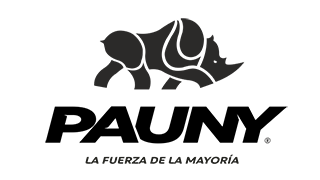
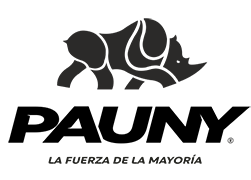
agregue seccion maquinaría y jardineria y cambios varios

diff --git a/index.html b/index.html
@@ -14,7 +14,7 @@
   <title>CamPoder SRL</title>
 </head>
 <body id="inicio">
-  <header class="bg-white">
+  <header class="bg-white sticky-top">
     <nav class="navbar navbar-expand-lg navbar-light">
       <div class="container">
         <a class="navbar-brand" href="#inicio">
@@ -35,7 +35,7 @@
               <a class="nav-link" href="#maquinaria">Maquinaria</a>
             </li>
             <li class="nav-item">
-              <a class="nav-link" href="">Jardinería</a>
+              <a class="nav-link" href="#motoimplementos">Jardinería</a>
             </li>
             <li class="nav-item">
               <a class="nav-link" href="">Contacto</a>
@@ -46,8 +46,8 @@
     </nav>
   </header>
   <main>
-    <section class="hero container d-flex flex-column flex-lg-row justify-content-center align-items-center my-2 my-md-5 py-5" >
-      <div class="row">
+    <section class="hero d-flex flex-column flex-lg-row justify-content-center align-items-center my-5 py-5" >
+      <div class="row container">
         <div class="d-flex flex-column justify-content-center align-items-center text-center col-12 col-lg-6">
           <img src="/img/campoder logo vector-ai.svg"  alt="" class="hero-logo">
           <h3 class="hero-subtitulo fw-bolder">"Un sólido respaldo para tu campo"</h3>
@@ -58,16 +58,42 @@
         </div>
       </div>  
     </section>
-    <section class="semillas d-flex justify-content-center align-items-center my-2 my-md-5" id="semillas">
+    <section class="semillas d-flex justify-content-center align-items-center py-5 mb-1" id="semillas">
       <div class="row container">
-        <div class="col-4 col-sm-6 col-lg-4 d-flex justify-content-start align-items-center">
-          <img src="/img/paquete.png" alt="" class="semillas-img d-none d-sm-block">
-          <img src="/img/90150400000_2ql7moyd0yfmf3to.png" alt="" class="semillas-img d-sm-none">  
+        <div class="col-12 col-md-4 d-flex justify-content-center align-items-center">
+          <img src="/img/paquete.png" alt="" class="semillas-img d-none d-md-flex">
+          <img src="/img/90150400000_2ql7moyd0yfmf3to.png" alt="" class="paquetes-img d-md-none">  
         </div>
-        <div class="col-8 col-sm-6 col-lg-8 semillas-texto d-flex justify-content-center align-items-start flex-column">
+        <div class="col-12 col-md-8 semillas-texto text-center text-md-end d-flex justify-content-center align-items-center flex-column">
           <h3 class="fw-bold pe-lg-3">PIONEER SEMILLAS <br> líder mundial en desarrollo y producción de genética y biotecnología de avanzada para cultivos.</h3>
           <h2>Somos representantes <span class="fw-bolder"> PIONEER </span> en Tucumán y zonas de Catamarca y Santiago del Estero.</h2>
-          <a href="https://www.pioneer.com/ar/" target="_blank" class="semillas-button fw-bold">Ver más</a>
+          <a href="https://www.pioneer.com/ar/" target="_blank" class="button semillas-button fw-bold align-self-md-end">Ver más</a>
+        </div>
+      </div>
+    </section>
+    <section class="maquinaria d-flex justify-content-center align-items-center py-5 mb-1" id="maquinaria">
+      <div class="row container d-flex flex-column flex-md-row justify-content-center align-items-center my-2 my-md-5">
+        <div class="col-12 text-center text-md-start col-md-6">
+          <img src="/img/a_8f3184dc03.png" class="maquianria-pauny-logo" alt="">
+          <h3 class="mb-3 fw-bold">Una empresa argentina líder en el rubro metalmecánico, reconocida por la producción de una completa gama de tractores de mediana y alta potencia, y de una sólida maquinaria vial. </h3>
+          <a href="#" target="_blank" class="button maquianaria-button fw-bold">Ver más</a>
+        </div>
+        <div class="col-12 col-md-6 mt-3 mt-sm-0">
+          <img src="/img/1478705423_evo-500c.png" class="maquinaria-img" alt="">
+        </div>
+      </div>
+    </section>
+    <section class="motoimplementos d-flex justify-content-center align-items-center py-2 py-md-5" id="motoimplementos">
+      <div class="row container">
+        <div class="col-12 col-md-7 d-flex justify-content-center align-items-center">
+          <img src="/img/stihl img.png" alt="" class="w-100 mb-3 mb-sm-0">
+        </div>
+        <div class="col-12 col-md-5 stihl-texto text-center text-md-end d-flex justify-content-center align-items-center flex-column">
+          <img src="/img/2560px-Stihl_Logo.svg.png" class="w-50 align-self-md-end" alt="">
+          <h2 class="fw-bold">Elegí la marca N° 1 en el mundo de motoimplementos y 
+            herramientas para jardinería! 
+            ELEGI STIHL!</h2>
+          <a href="#" target="_blank" class="button stihl-button fw-bold align-self-md-end">Ver más</a>
         </div>
       </div>
     </section>

diff --git a/css/style.css b/css/style.css
@@ -3,6 +3,8 @@
   --amarillo: #F9DE5D;
   --verde: #009241;
   --negro: #1F1A17;
+  --blanco: #f1f1f1;
+  --naranja: #ff7a0d;
 }
 *{
   font-family: 'Lato', sans-serif;
@@ -30,8 +32,15 @@
 .hero-img{
   width: 100%;
 }
+.semillas{
+  height: 100vh;
+  background-color: #d4d4d4;
+}
 .semillas-img{
-  width: 100%
+  width: 100%;
+}
+.paquete-img{
+  width: 50%;
 }
 .semillas-texto span{
   color: var(--verde);
@@ -39,19 +48,50 @@
 .semillas-texto h3{
   color: var(--verde);
 }
+.button{
+  padding: 10px 25px;
+  border-radius: 5px;
+  border: none;
+  font-size: 1.2rem;
+  text-decoration: none;
+  cursor: pointer;
+}
 .semillas-button{
   background-color: var(--verde);
- padding: 10px 25px;
- border-radius: 5px;
- border: none;
- font-size: 1.2rem;
- text-decoration: none;
- cursor: pointer;
- color: white;
+  color: var(--blanco);
 }
 .semillas-button:hover{
   background-color: var(--amarillo);
   color: var(--negro)
+}
+.maquinaria{
+  height: 100vh;
+  background-image: linear-gradient(red, yellow);
+}
+.maquianria-pauny-logo{
+  width: 50%;
+}
+.maquianaria-button{
+  background-color: var(--amarillo);
+  color: var(--negro);
+}.maquianaria-button:hover{
+  background-color: var(--verde);
+  color: var(--blanco);
+}
+.maquinaria-img{
+  width: 100%;
+}
+.motoimplementos{
+  height: 100vh;
+  background-color: #dbdada;
+}
+.stihl-button{
+  color: var(--blanco);
+  background-color: var(--naranja);
+}
+.stihl-button:hover{
+  color: var(--negro);
+  background-color: #ff5100;
 }
 @media (min-width: 578px) and (max-width: 993px){
   .nav-img{
@@ -92,13 +132,7 @@
   .hero-img{
     width: 100%;
   }
-  .semillas-texto h2{
-    font-size: 18px;
-  }
-  .semillas-texto h3{
-    font-size: 14px;
-  }
-  .semillas-button{
+ .button{
     font-size: 12px;
     padding: 5px 15px;
   }
